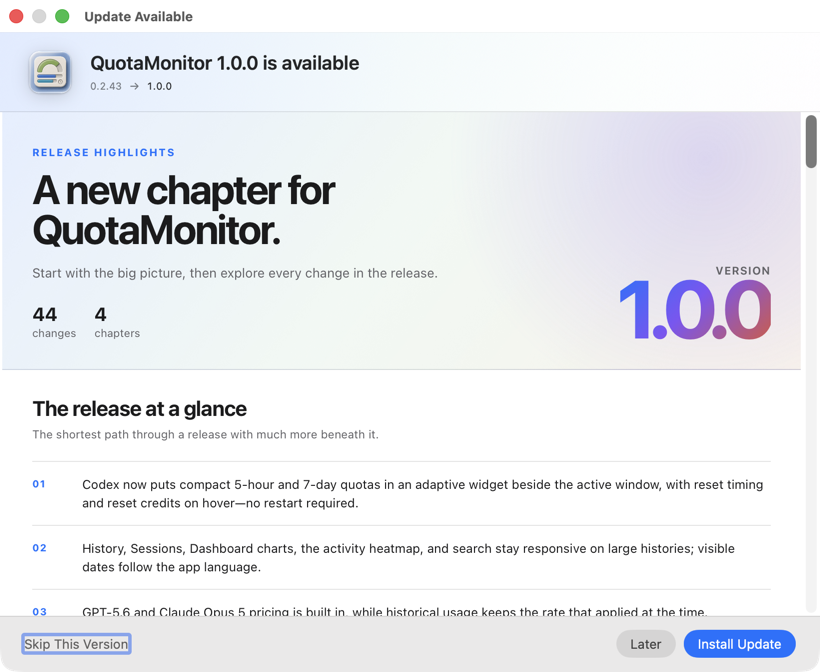
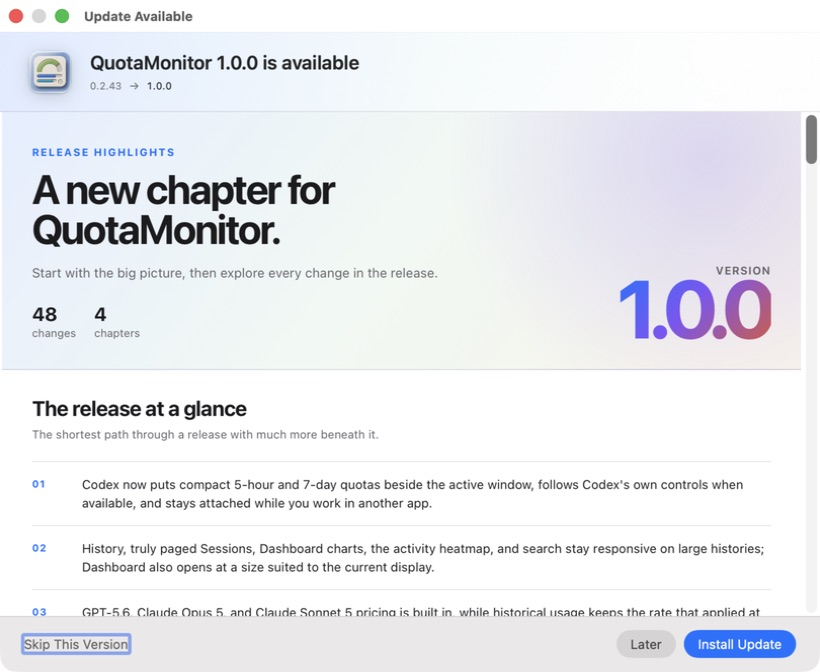
Refresh 1.0 update captures for latest changes

diff --git a/Resources/WhatsNew/2026-08/README.md b/Resources/WhatsNew/2026-08/README.md
@@ -11,7 +11,7 @@ credentials, conversation content, and local usage history.
 - `pricing-history.en.jpg` was captured from the isolated English fixture QA
   app. The Chinese counterpart is the existing isolated fixture capture.
 - `update-highlights.*.png` was captured from the isolated 1.0 update-window
-  preview in each app language after verifying the complete 44-change release
+  preview in each app language after verifying the complete 48-change release
   edition, chapter navigation, scrolling, and localized controls.
 
 SHA-256:
@@ -22,5 +22,5 @@ SHA-256:
[7 lines of base64/hex data omitted]
